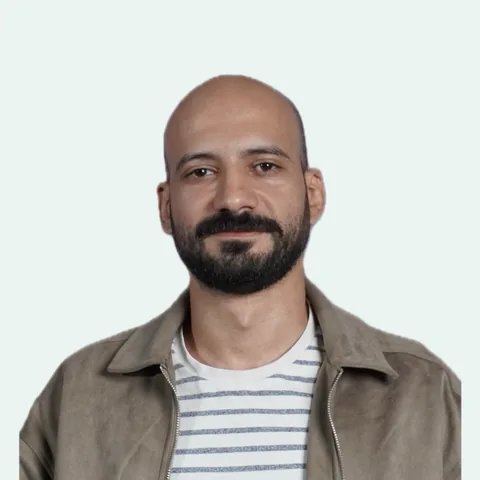
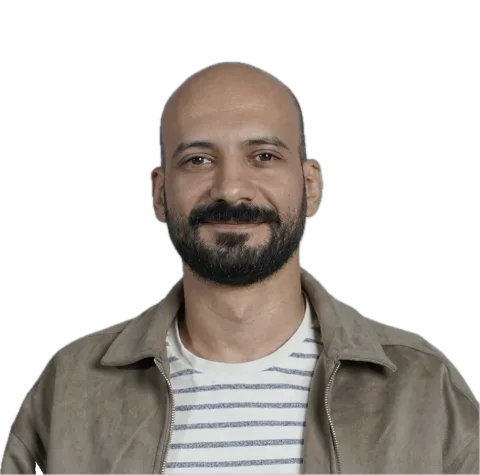
lighthouse fixes

diff --git a/index.html b/index.html
@@ -25,9 +25,11 @@
 <meta name="twitter:title" content="Eslam Radi | Web Developer">
 <meta name="twitter:description" content="Online stores, payment systems, company websites. Tell me what you're building.">
 <meta name="twitter:image" content="https://eslamradi.com/og.png">
+<link rel="preload" as="image" href="me.webp" type="image/webp" fetchpriority="high">
 <link rel="preconnect" href="https://fonts.googleapis.com">
 <link rel="preconnect" href="https://fonts.gstatic.com" crossorigin>
-<link href="https://fonts.googleapis.com/css2?family=Space+Grotesk:wght@500;700&family=Inter:wght@400;500;600&family=IBM+Plex+Mono:wght@400;500&display=swap" rel="stylesheet">
+<link href="https://fonts.googleapis.com/css2?family=Space+Grotesk:wght@500;700&family=Inter:wght@400;500;600&family=IBM+Plex+Mono:wght@400;500&display=swap" rel="stylesheet" media="print" onload="this.media='all'">
+<noscript><link href="https://fonts.googleapis.com/css2?family=Space+Grotesk:wght@500;700&family=Inter:wght@400;500;600&family=IBM+Plex+Mono:wght@400;500&display=swap" rel="stylesheet"></noscript>
 <style>
   :root{
     --paper:#FAFAF8;
@@ -91,9 +93,9 @@
   h1{font-family:var(--display);font-weight:700;font-size:clamp(34px,6vw,52px);line-height:1.1;letter-spacing:-0.02em;margin-bottom:18px}
   .lede{font-size:18px;color:var(--muted);max-width:540px}
   .avail{display:inline-flex;align-items:center;gap:8px;margin-top:18px;font-family:var(--mono);font-size:13px;color:var(--muted)}
-  .avail i{width:8px;height:8px;border-radius:50%;background:var(--accent);box-shadow:0 0 0 0 rgba(14,122,95,.55);animation:pulse 2s ease infinite}
-  html[data-theme="dark"] .avail i{box-shadow:0 0 0 0 rgba(47,174,139,.5)}
-  @keyframes pulse{0%{box-shadow:0 0 0 0 rgba(14,122,95,.45)}70%{box-shadow:0 0 0 8px rgba(14,122,95,0)}100%{box-shadow:0 0 0 0 rgba(14,122,95,0)}}
+  .avail i{position:relative;width:8px;height:8px;border-radius:50%;background:var(--accent)}
+  .avail i::after{content:'';position:absolute;inset:0;border-radius:50%;background:var(--accent);opacity:.45;animation:pulse 2s ease infinite}
+  @keyframes pulse{0%{transform:scale(1);opacity:.45}70%{transform:scale(2.6);opacity:0}100%{transform:scale(2.6);opacity:0}}
   .avail b{color:var(--ink);font-weight:500}
 
   /* Motion */
@@ -236,6 +238,7 @@
   </div>
 </nav>
 
+<main>
 <header>
   <div class="hero-grid">
     <div>
@@ -244,7 +247,7 @@
       <p class="avail reveal reveal-d3"><i aria-hidden="true"></i><b>Available</b> for new projects</p>
     </div>
     <div class="portrait reveal reveal-d4">
-      <img src="me.PNG" alt="Eslam, web developer" width="240" height="240" fetchpriority="high">
+      <img src="me.webp" alt="Eslam, web developer" width="240" height="240" fetchpriority="high" decoding="async">
     </div>
   </div>
 </header>
@@ -379,6 +382,7 @@
     </a>
   </div>
 </div>
+</main>
 
 <footer>
   <div>© 2026 Eslam</div>